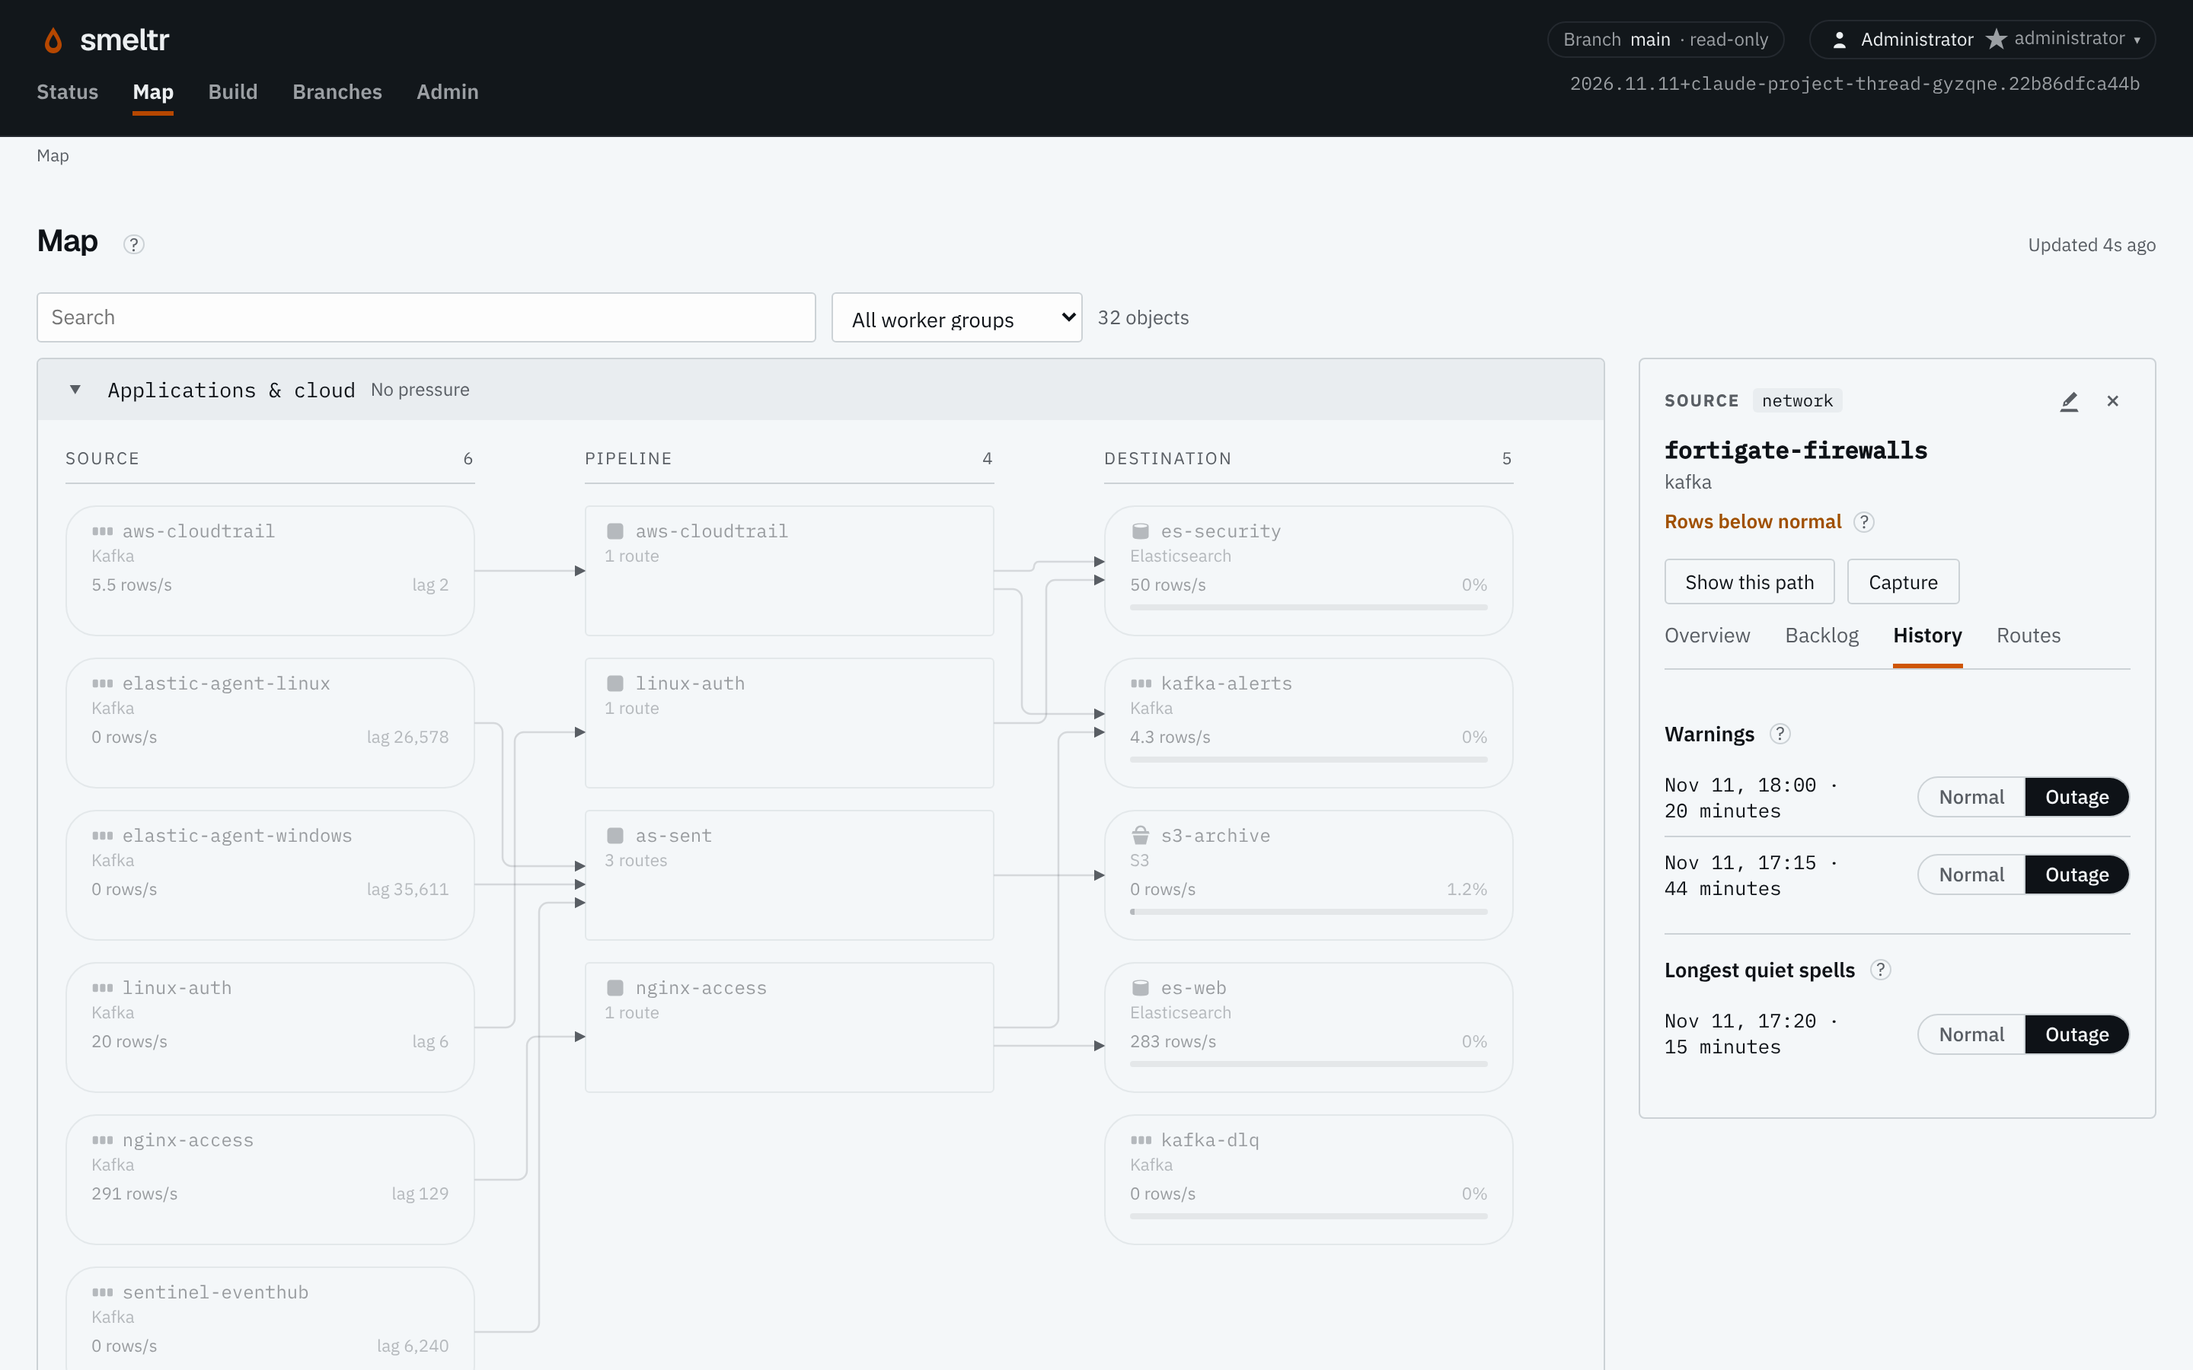
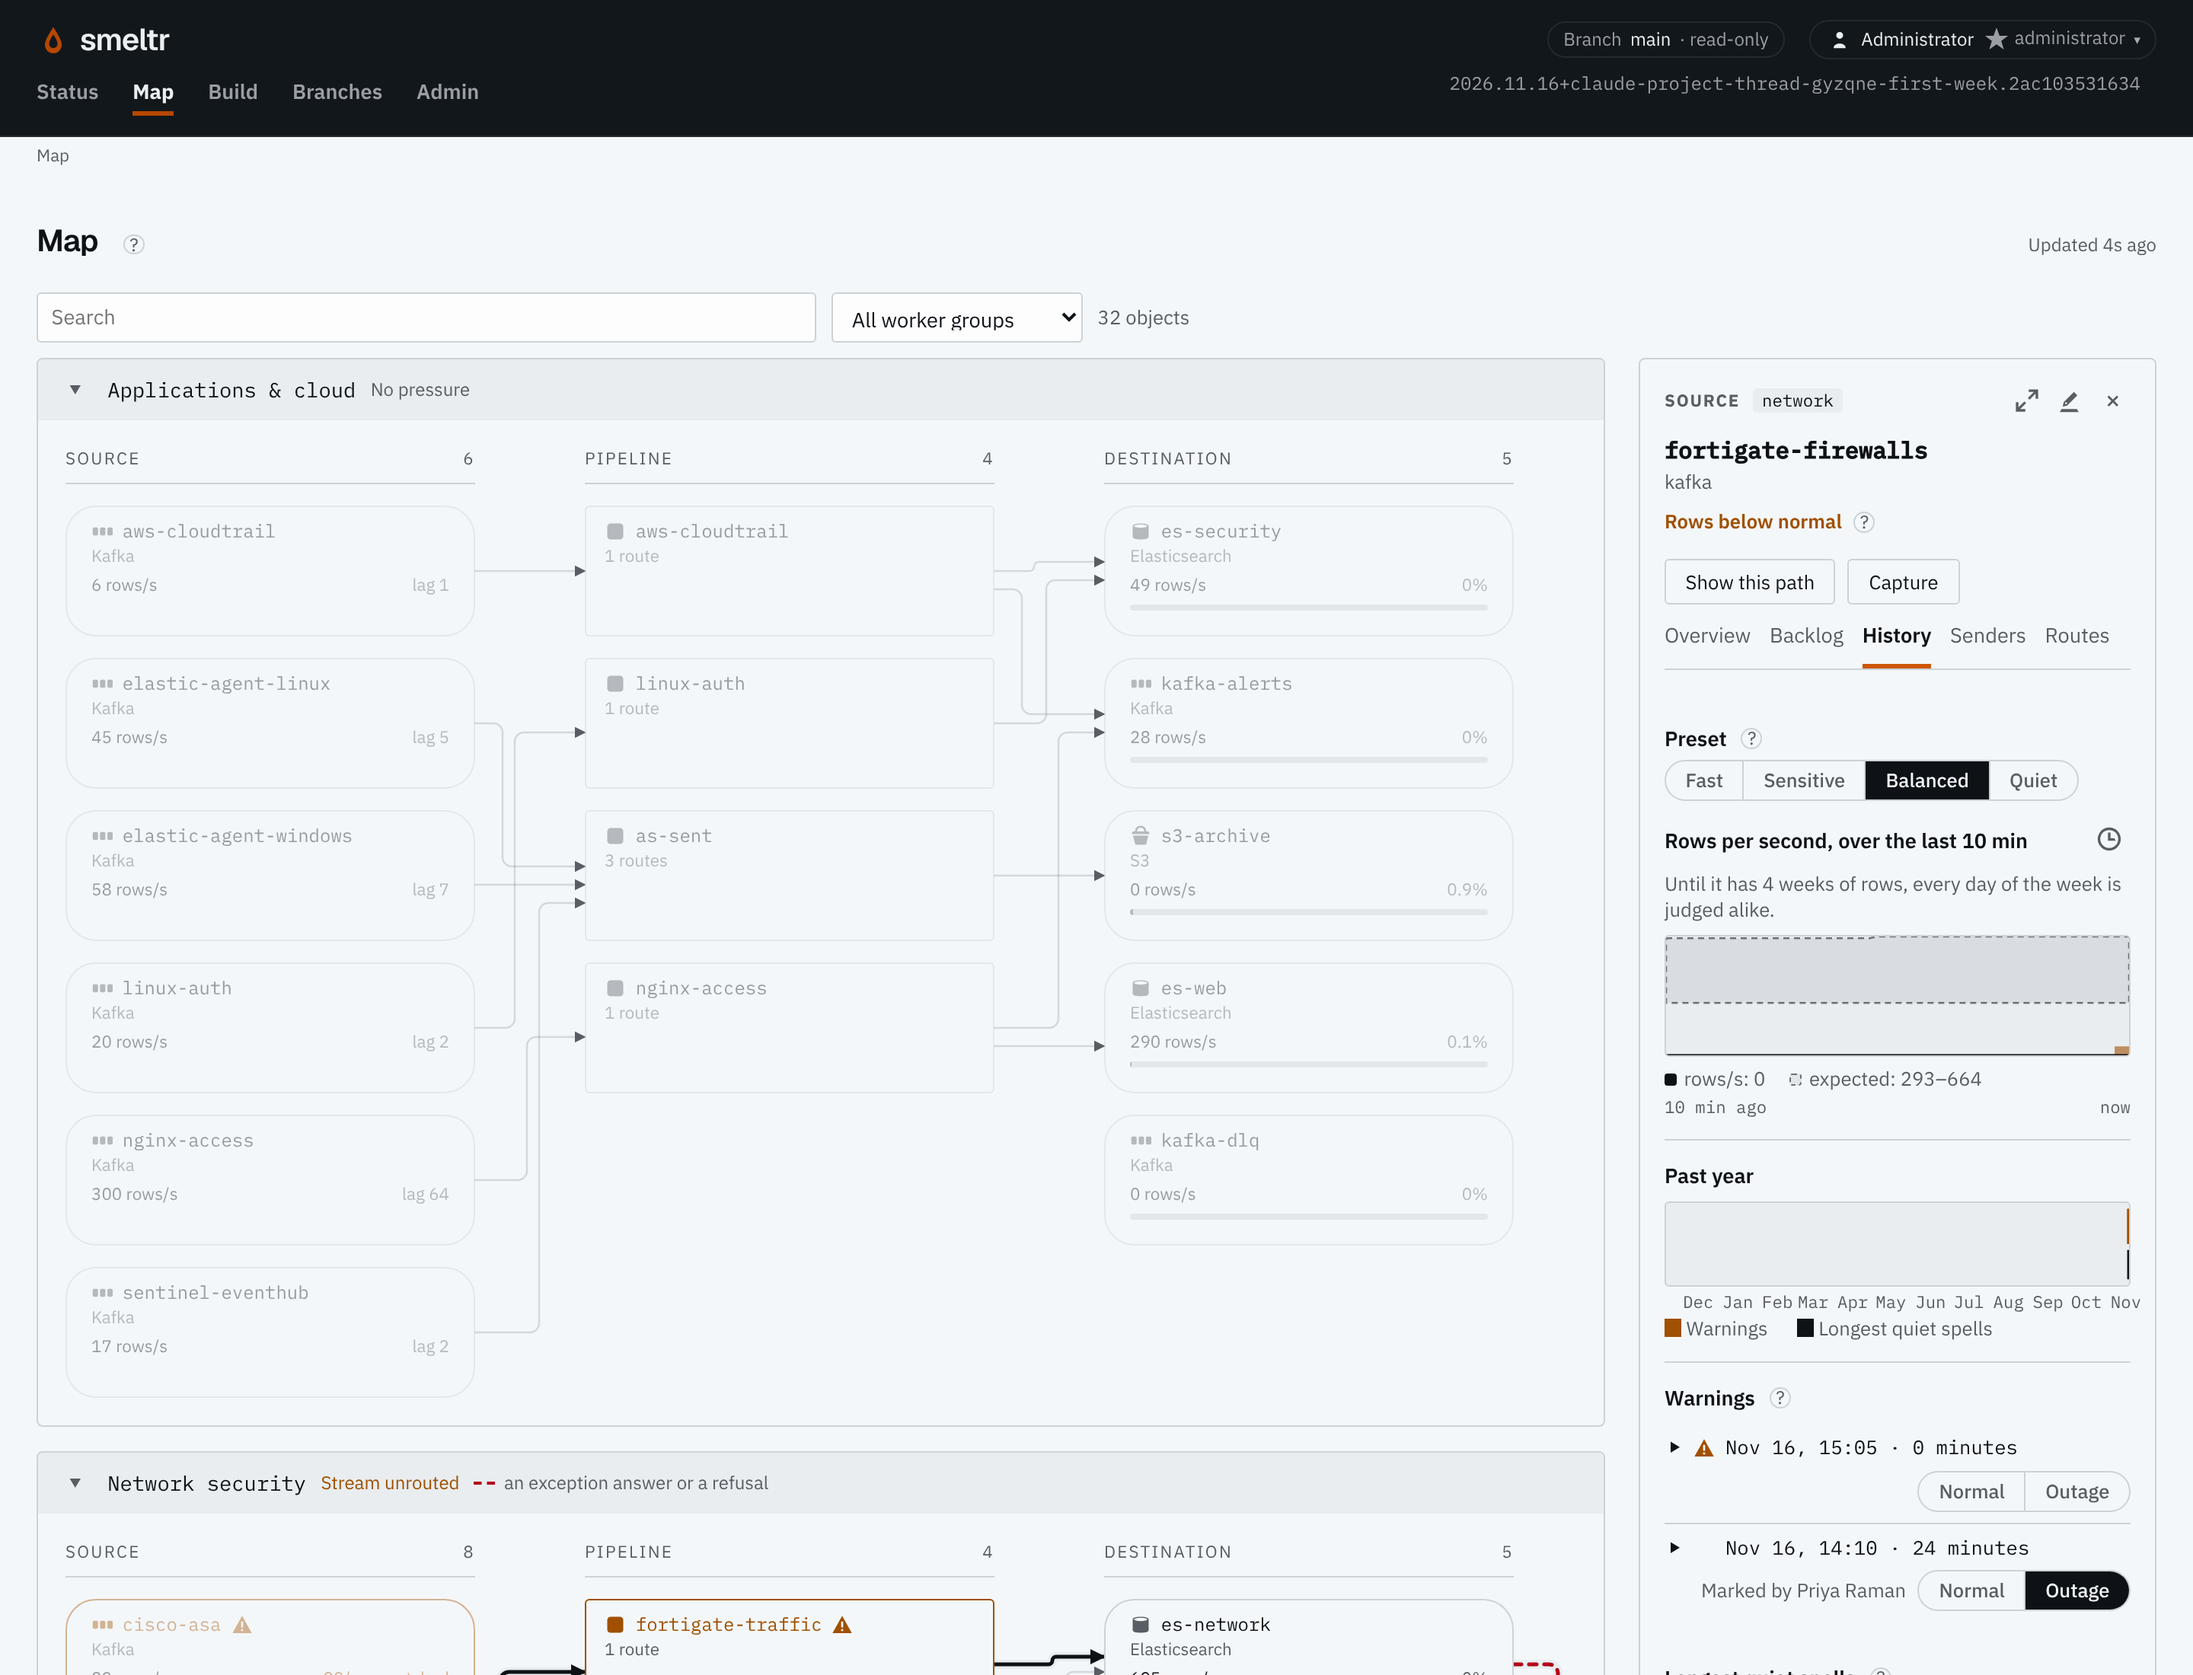
Retake the Feed health page's shots for presets, answered warnings and a week's wait (#736)
* Retake the Feed health page's outage shots since presets

The source panel grew with presets (the History tab's preset picker, the
Overview tiles), so the Map shots of the outage are taken 1100 px tall and
the page's crops follow the panel. The alt text names the new values.

Claude-Session: https://claude.ai/code/session_016X7h2TF6fY2yjAYkvbcw2P

* Retake the Feed health shots for answered warnings and a week's wait

The History shot shows two warnings: one an editor marked Outage, and one
just raised that waits for an answer. The page says how a warning is
answered, that a source is judged after a week, and that a sender's warning
is marked Normal or Outage. The Issues row now carries its answer switch.

Claude-Session: https://claude.ai/code/session_016X7h2TF6fY2yjAYkvbcw2P

---------

diff --git a/website/src/routes/feed-health/+page.svelte b/website/src/routes/feed-health/+page.svelte
@@ -31,9 +31,9 @@
     </p>
     <ProductScreenshot
       source="feed-health-volume"
-      height={1800}
-      crop={{ x: 2150, y: 470, width: 690, height: 950 }}
-      alt="The Map's panel for the fortigate-firewalls source: Rows below normal, input 0 rows a second, expected 228 to 746. Its 24-hour chart runs inside the expected band through the day, then twice drops to nothing."
+      height={2200}
+      crop={{ x: 2150, y: 470, width: 690, height: 1300 }}
+      alt="The Map's panel for the fortigate-firewalls source: Rows below normal, input 0 rows a second, expected 233 to 757. Its 24-hour chart runs inside the expected band through the day, then drops to nothing twice."
       caption="Over the last 24 hours the source reads within its band, until the relay stops, twice."
     />
     <p>
@@ -48,9 +48,9 @@
         source: 'feed-health-issues-phone',
         height: 2200,
         width: 1440,
-        crop: { x: 472, y: 916, width: 920, height: 382 },
+        crop: { x: 472, y: 956, width: 920, height: 388 },
       }}
-      alt="The Issues page: Rows below normal, for the fortigate-firewalls source, which read 0 rows in 5 minutes where 71,695 to 226,858 is normal at this time of day."
+      alt="The Issues page: Rows below normal, for the fortigate-firewalls source, which read 0 rows in 5 minutes where 70,006 to 227,110 is normal at this time of day. Beside it are Reset history and a Normal and Outage switch."
       caption="The Issues page names the source, what it read and what is normal."
     />
     <p>
@@ -60,22 +60,23 @@
       History tab.
     </p>
     <p>
-      Smeltr starts warning once a source has three days of history. A source too sparse for its
-      rows to be counted, such as an audit log that writes a few rows a day, is watched for four
-      weeks instead, then warns once it goes half again as long without a row as its longest quiet
-      spell of the past year.
+      Smeltr starts warning once a source has a week of history. A source too sparse for its rows to
+      be counted, such as an audit log that writes a few rows a day, is watched for four weeks
+      instead, then warns once it goes half again as long without a row as its longest quiet spell
+      of the past year.
     </p>
     <p>
       Each source's History tab lists its warnings and longest quiet spells of the past year. A
-      warning, and a quiet spell during one, is not learned unless an editor marks it Normal. Any
-      other quiet spell is learned unless an editor marks it Outage:
+      warning stays a warning until an editor marks it, there or on the Issues page. Marked Outage,
+      it turns into info until it ends, and is not learned. Marked Normal, it turns into info, and
+      the source's normal learns from it. A warning nobody marked is not learned either:
     </p>
     <ProductScreenshot
       source="feed-health-history"
-      height={1800}
-      crop={{ x: 2150, y: 470, width: 690, height: 1000 }}
-      alt="The Map's panel for the fortigate-firewalls source, History tab. Warnings: Nov 11, 18:00, for 20 minutes, and Nov 11, 17:15, for 44 minutes. Longest quiet spells: Nov 11, 17:20, for 15 minutes, inside the older warning. Each row has a Normal and Outage switch, set to Outage."
-      caption="A warning lasts until no width reads the source below normal, so it outlasts the quiet spell inside it. None of the three is learned."
+      height={2200}
+      crop={{ x: 2150, y: 470, width: 690, height: 1680 }}
+      alt="The Map's panel for the fortigate-firewalls source, History tab, at the Balanced preset. Warnings: Nov 16, 15:05, just raised, with its Normal and Outage switch unset; and Nov 16, 14:10, for 24 minutes, marked Outage by Priya Raman."
+      caption="Priya marked the first warning Outage. The second has just begun and waits for an answer. Neither is learned."
     />
   </section>
   <section aria-labelledby="senders-heading">
@@ -90,8 +91,8 @@
     <p>
       The source's Senders tab lists the fields that can name its senders and, for each watched
       sender, its last day against its range. Senders start at the Quiet preset, since each sender
-      warns on its own. An editor picks another preset there, lowers a sender's warning to info,
-      stops watching a field, or adds a field to watch.
+      warns on its own. An editor picks another preset there, marks a sender's warning Normal or
+      Outage, stops watching a field, or adds a field to watch.
     </p>
   </section>
   <section aria-labelledby="drift-heading">
@@ -110,7 +111,7 @@
         source: 'feed-health-issues-phone',
         height: 2200,
         width: 1440,
-        crop: { x: 472, y: 464, width: 920, height: 336 },
+        crop: { x: 472, y: 503, width: 920, height: 344 },
       }}
       alt="The Issues page: Field not its declared type, for the fortigate-traffic pipeline, whose field proto has failed to read as its declared type in the last hour."
       caption="The Issues page names the pipeline, the field and the step."
